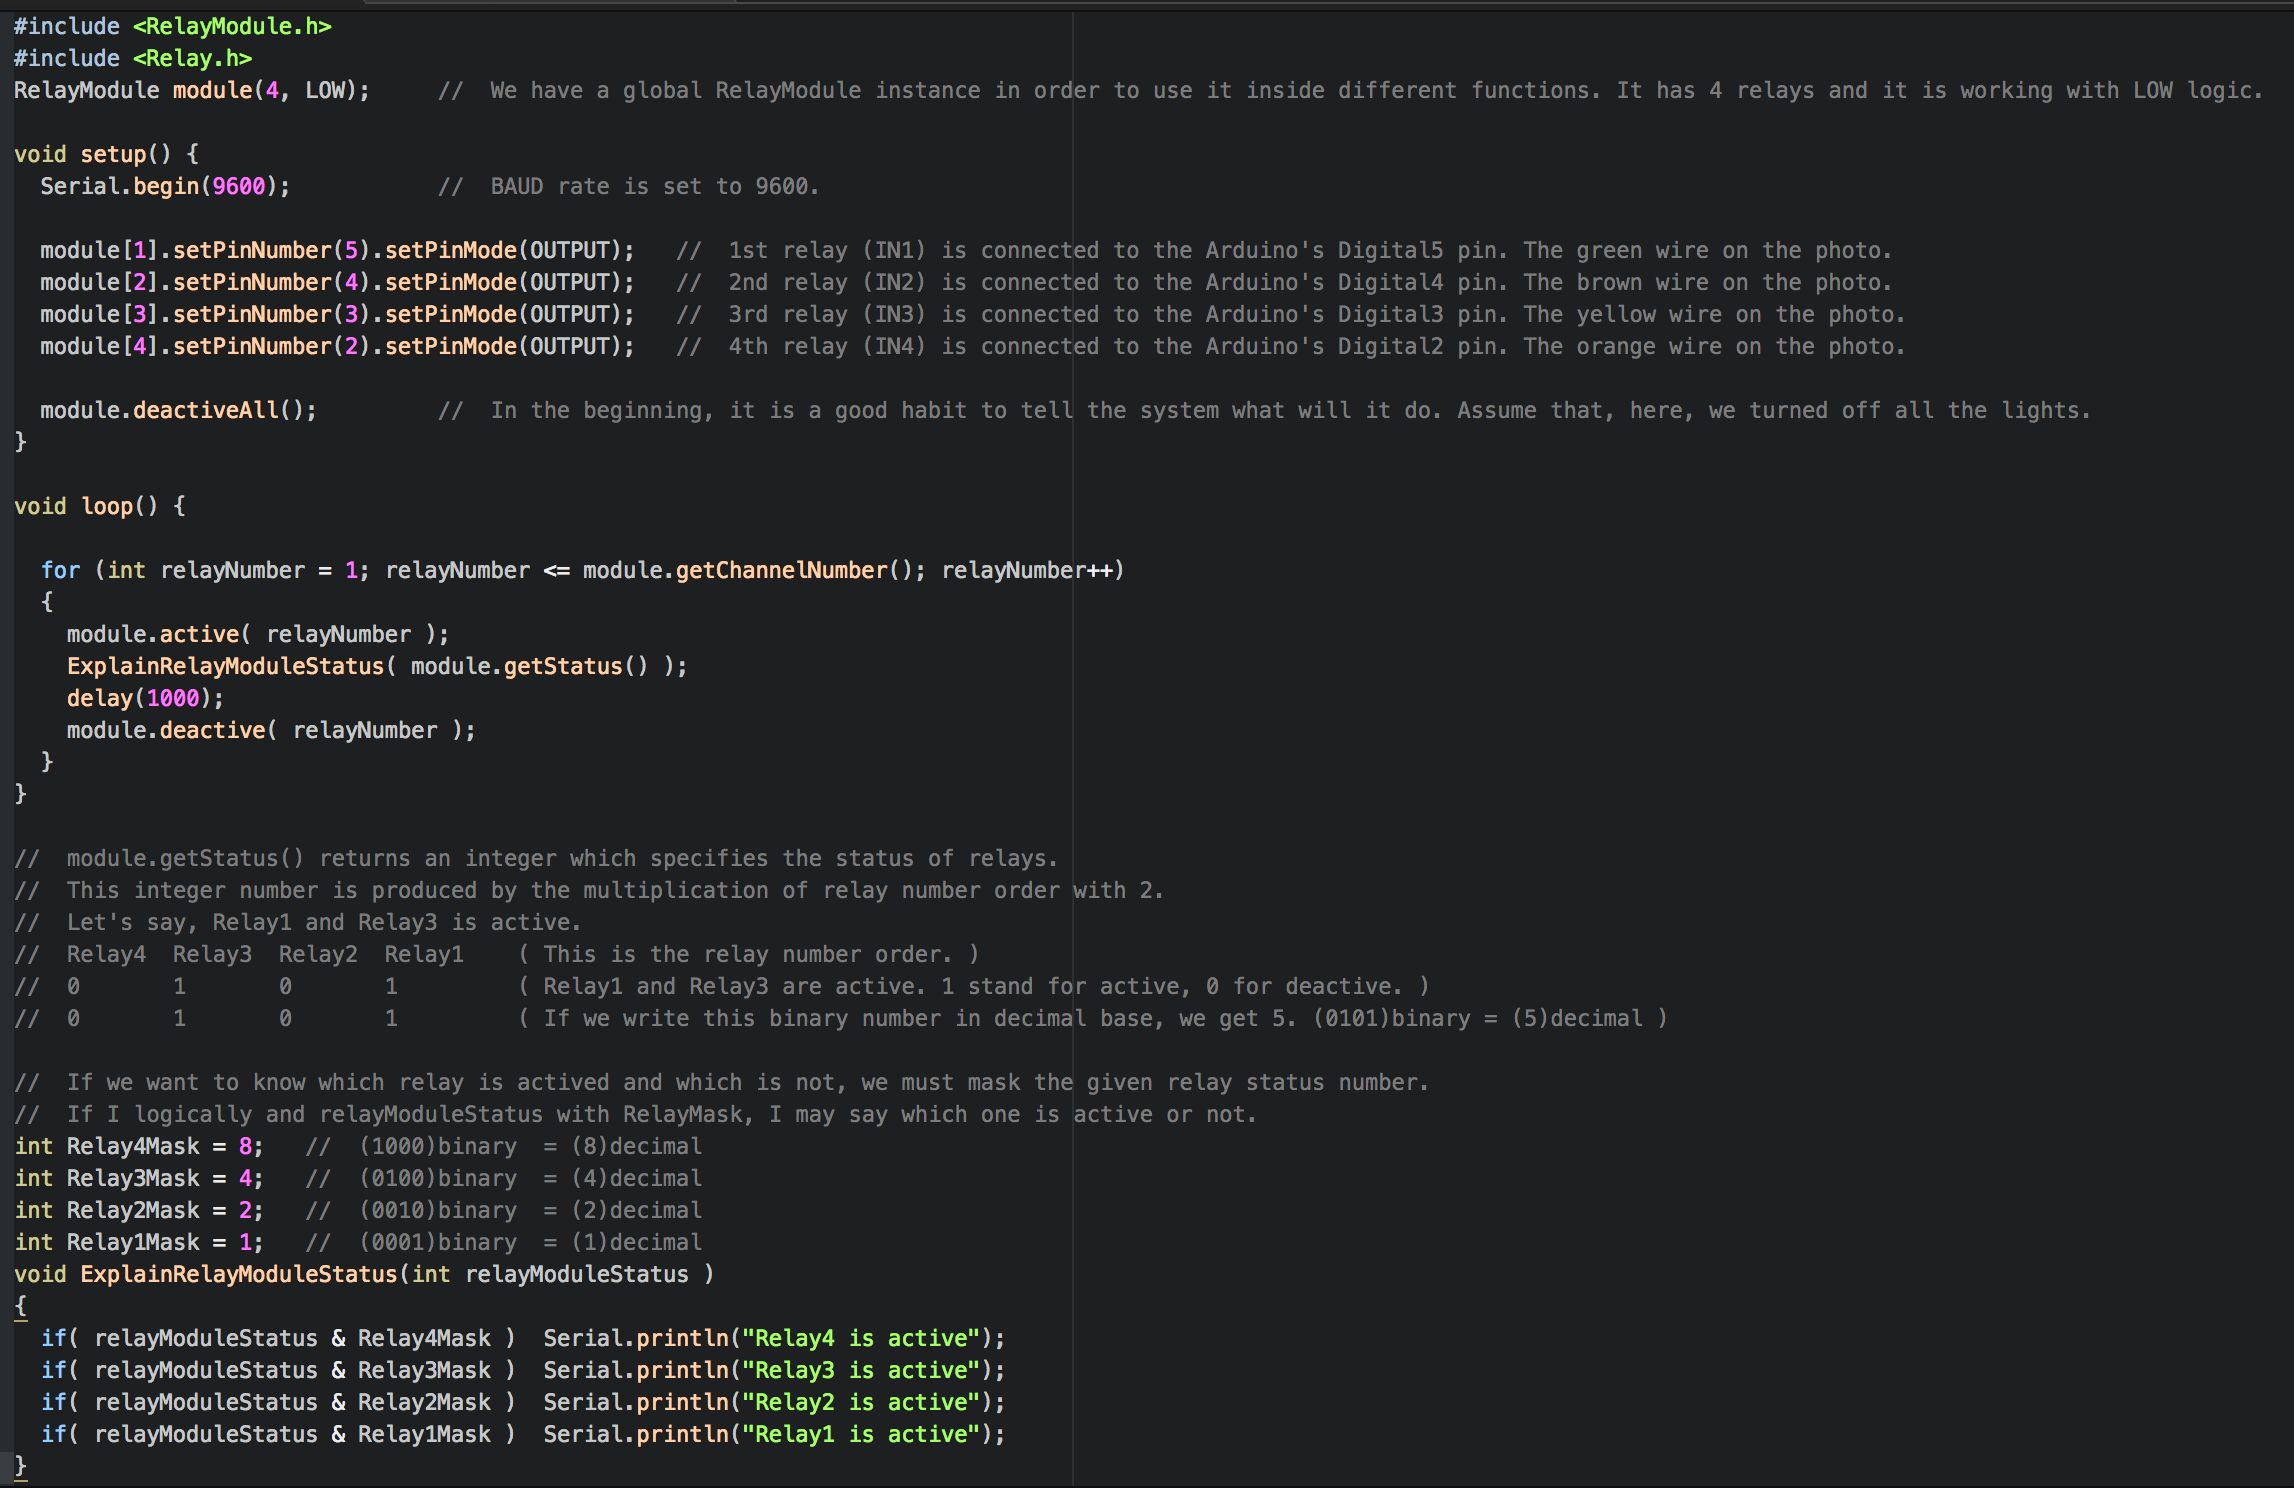
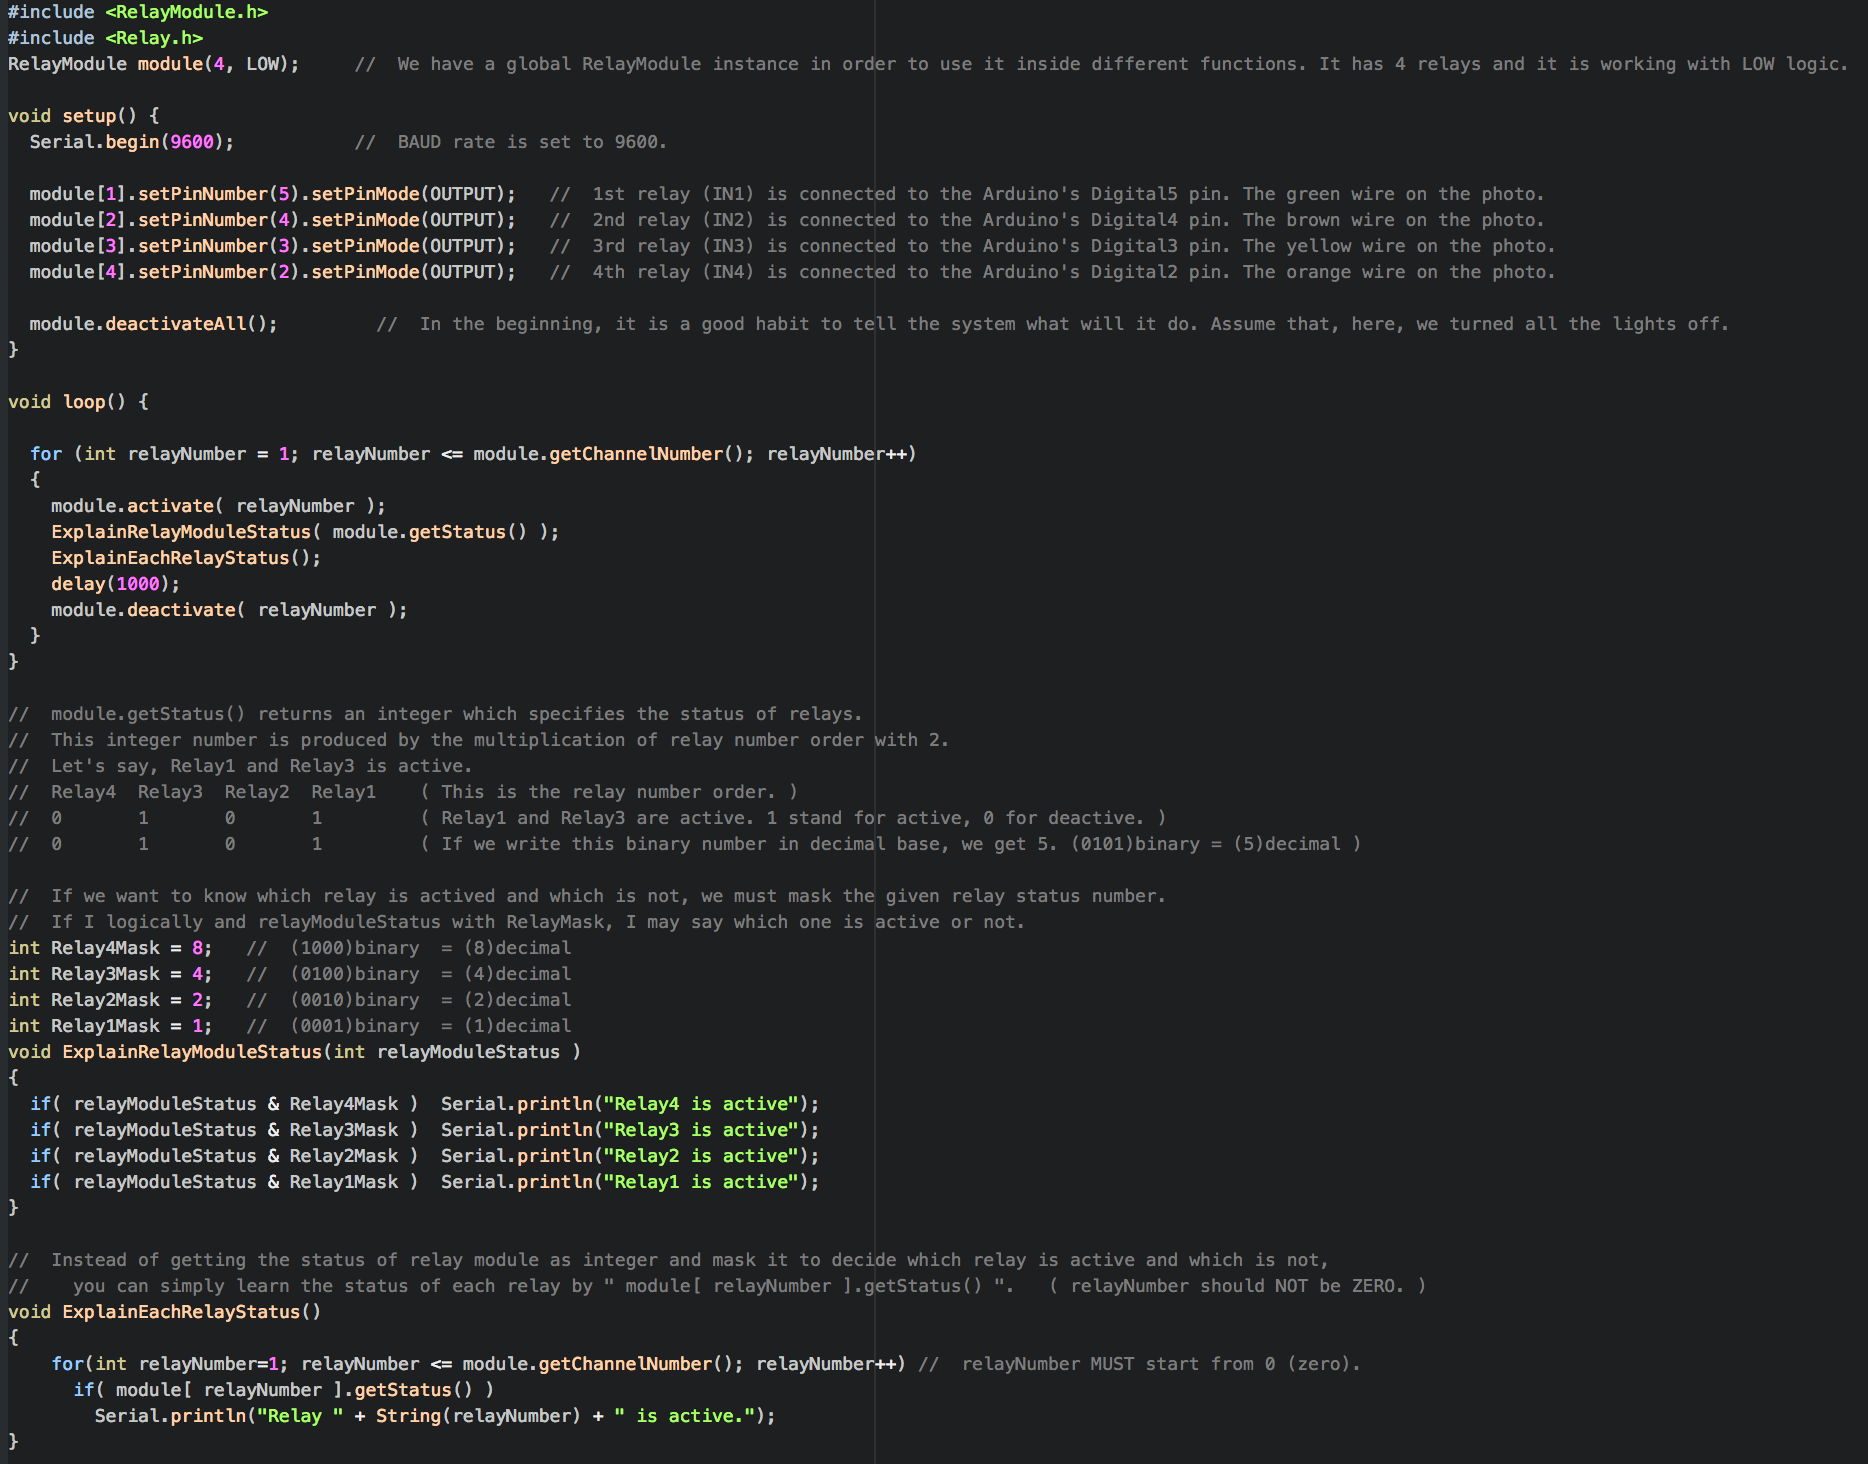
active -> activates

diff --git a/RelayModule.h b/RelayModule.h
@@ -10,9 +10,9 @@ private:
     uint8_t logicType;                          //  Specifies the logic type of Relay Module.
                                                 //  If a relay on this card is activated with digitalWrite(pin, LOW), Relay Module is working with LOW logic.
     Relay* Relays = new Relay[channelNumber];   //  "Relays" consists of relays which are created in Relay Module constructor.
-    
+
 public:
-    
+
     RelayModule(uint8_t channelNumber, uint8_t logicType):
         channelNumber(channelNumber),
         logicType(logicType)
@@ -23,19 +23,19 @@ public:
 
     void    setChannelNumber(uint8_t number)    { channelNumber = number;   }
     uint8_t getChannelNumber() const            { return channelNumber;     }
-    
-    
+
+
     void    setLogicType(uint8_t type)          { logicType = type;     }
     uint8_t getLogicType() const                { return logicType;     }
-    
-    
-    
-    bool active(uint8_t relayNumber);           //  Activates the specified relay in the "Relays" array.
-    bool activeAll();                           //  Activates all the relays in the "Relays" array.
-    
-    bool deactive(uint8_t relayNumber);         //  Deactivates the specified relay in the "Relays" array.
-    bool deactiveAll();                         //  Deactivates all the relays in the "Relays" array.
-    
+
+
+
+    bool activate(uint8_t relayNumber);         //  Activates the specified relay in the "Relays" array.
+    bool activateAll();                         //  Activates all the relays in the "Relays" array.
+
+    bool deactivate(uint8_t relayNumber);       //  Deactivates the specified relay in the "Relays" array.
+    bool deactivateAll();                       //  Deactivates all the relays in the "Relays" array.
+
     uint8_t getStatus(int relayNumber = -1);    //  Returns the status of relays as integer.
                                                 //                                  Relay4  Relay3  Relay2  Relay1
                                                 //  As an example,                     1       0       1      0    specifies that Relay4 and Relay2 is active.
@@ -43,7 +43,7 @@ public:
                                                 //  15 = 8 + 4 + 2 + 1      All relays are active.
                                                 //  6  = 0 + 4 + 2 + 0      Relay 2 and 3 are active.
                                                 //  7  = 0 + 4 + 2 + 1      Relay 2, 3 and 4 are active.
-    
+
     Relay& operator[] (int index);              //  Relays is a 0-based index array. To reach first relay in this array, we would use RelayModule.Relays[0]
                                                 //  We can also reach first relay in this array by using RelayModule[1] instead of RelayModule.Relays[0].
 };

diff --git a/RelayModule.cpp b/RelayModule.cpp
@@ -3,19 +3,19 @@
 //Activates specified relay in the "Relays" and sets the relay's status as 1.
 //If RelayModule is working with LOW logic, we can activate a relay with digitalWrite(pin, LOW).
 //So, we can send the logicType(in above case LOW) to the write function to make the relay active.
-bool RelayModule::active(uint8_t relayNumber)
+bool RelayModule::activate(uint8_t relayNumber)
 {
     Relays[ relayNumber-1 ].write(logicType).setStatus(1);
-    
+
     return Relays[ relayNumber-1 ].getStatus();
 }
 
 //Activates all the relays on the Relay Module.
-bool RelayModule::activeAll()
+bool RelayModule::activateAll()
 {
     for(uint8_t i=1; i <= channelNumber; i++)
-        if ( ! active(i) ) return false;
-    
+        if ( ! activate(i) ) return false;
+
     return true;
 }
 
@@ -24,24 +24,24 @@ bool RelayModule::activeAll()
 //Deactivates specified relay in the "Relays" and sets the relay's status as 0.
 //If RelayModule is working with LOW logic, we can deactivate a relay with digitalWrite(pin, HIGH).
 //So, we can send "the reverse of logicType(in above case HIGH)" to the write function to make the relay deactive.
-bool RelayModule::deactive(uint8_t relayNumber)
+bool RelayModule::deactivate(uint8_t relayNumber)
 {
-    
+
     uint8_t close;
-    
+
     (logicType == HIGH)? close=LOW : close=HIGH;
-    
+
     Relays[relayNumber-1].write(close).setStatus(0);
-    
+
     return ( Relays[ relayNumber-1 ].getStatus() ) ? false : true;      //  If relay's status is 0, then operation is successfull.
 }
 
 //Deactivates all the relays on the Relay Module.
-bool RelayModule::deactiveAll()
+bool RelayModule::deactivateAll()
 {
     for(uint8_t i=1; i<=channelNumber; i++)
-        if ( ! deactive(i) ) return false;
-    
+        if ( ! deactivate(i) ) return false;
+
     return true;
 }
 
@@ -59,12 +59,12 @@ bool RelayModule::deactiveAll()
 uint8_t RelayModule::getStatus(int relayNumber)
 {
     if ( relayNumber != -1 )    return Relays[ relayNumber ].getStatus();
-        
+
     uint8_t status = 0;
-    
+
     for(uint8_t i=0, digitValue = 1; i<channelNumber; i++, digitValue *= 2)
         status += (Relays[i].getStatus() * digitValue);
-    
+
     return status;
 }
 

diff --git a/README.md b/README.md
@@ -95,44 +95,18 @@ If we have those connections, we need to set the Relay Module's pins as:<br>
 <a name="title3sub3"></a>
 ### 3.3 All Functions of RelayModule
 
-<table>
-    <tr>
-        <th width=30%><b>Functions</b></th>
-        <th width=40%><b>Explanation</b></th>
-        <th><b>Example</b></th>
-    </tr>
-    <tr>
-        <td> module( channelNumber, logic ); </td>
-        <td> Initiates the relay module. </td>
-        <td> module( 4 , LOW );<br> It is 4 channel relay module which is working with LOW logic. </td>
-    </tr>
-    <tr>
-        <td> module.active( relayNumber ); </td>
-        <td> Activates the relay.</td>
-        <td> module.active(3);<br>Activates the third relay. </td>
-    </tr>
-    <tr>
-        <td> module.activeAll(); </td>
-        <td> Activates all relays on the Relay Module.</td>
-    </tr>
-    <tr>
-        <td> module.deactive( relayNumber ); </td>
-        <td> Deactivates the relay.</td>
-        <td> module.deactive(1);<br>Deactivates the first relay. </td>
-    </tr>
-    <tr>
-        <td> module.deactiveAll(); </td>
-        <td> Deactivates all relays on the Relay Module. </td>
-    </tr>
-    <tr>
-        <td> module.getStatus(); </td>
-        <td> Returns the status of relays as integer. </td>
-        <td> Status: 7 <br> 7 = 0 + 4 + 2 + 1 <br> Specifies that Relay 1,2, 3 are active and Relay4 is deactive. </td>
-    </tr>
-    
-</table>
-<a name="title4"></a>
+| Functions             | Example           | Explanation  |
+|---------------------|:---------------------:| -----------:|
+| ` module( channelNumber, logic ); `        |    RelayModule module( 4, LOW );         |     It is 4 channel relay module which is working with LOW logic. |  
+| ` module.activate( relayNumber ); `          |    module.activate( 1 ) ;                        |     Activates the first relay.  | 
+| ` module.activateAll(); `                               |    module.activateAll();                         |     Activates all relays on the Relay Module.  |
+| ` module.deactivate( relayNumber ); `      |    module.deactivate( 1 ) ;                    |     Deactivates the first relay.  |
+| ` module.deactivateAll(); `                           |    module.deactivateAll( ) ;                   |     Deactivates all relays on the Relay Module. |
+|` module.getStatus(); `                                    |    module.getStatus( ) ;                        |     Status: 7 <br> 7 = 0 + 4 + 2 + 1 <br> Specifies that Relay 1,2, 3 are active and Relay4 is deactive.  |
+|` module[ relayNumber ].getStatus(); `     |    module[ 1 ].getStatus( ) ;                  |     Returns the status of first relay as integer.  |
 
+
+<a name="title4"></a>
 ## 4. Talk Is Cheap, Show Me The Code
 ![RelayModuleExample](Photos/Talk_Is_Cheap_Show_Me_The_Code.png)
 <br><br><br>
